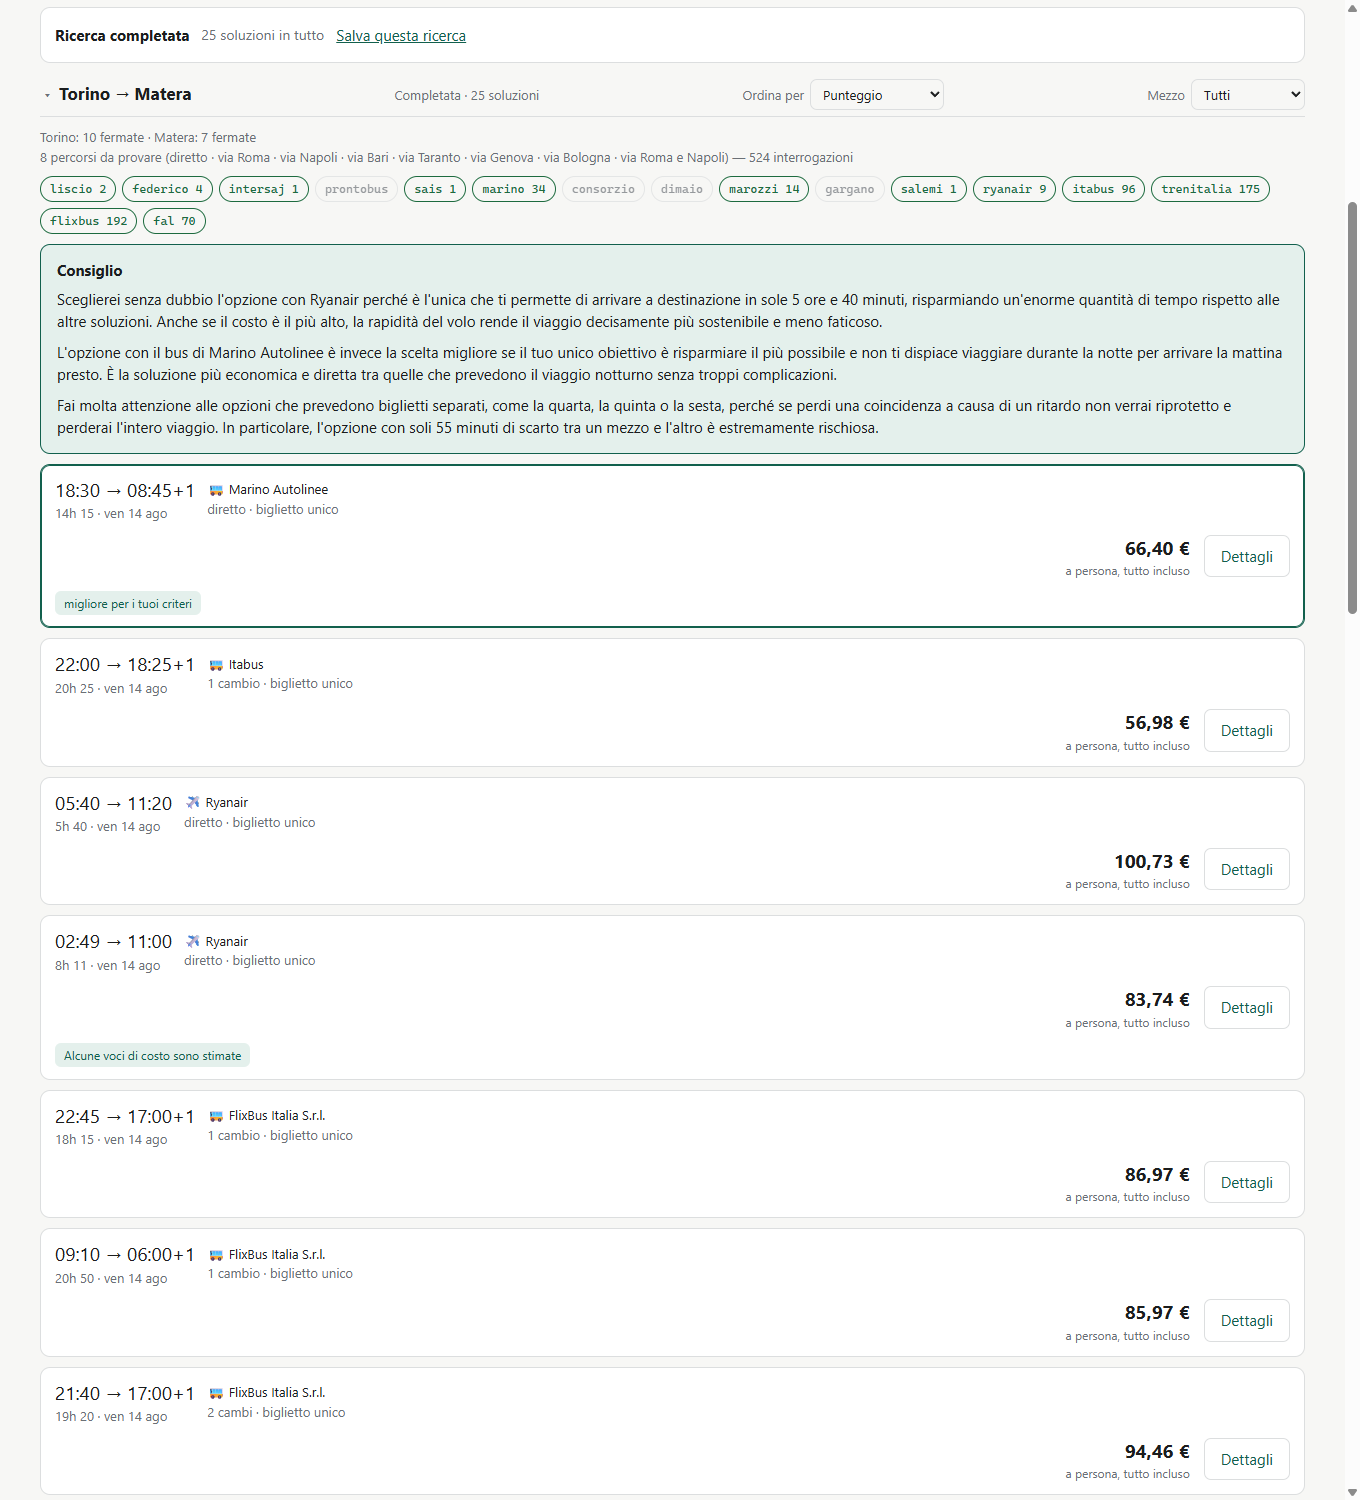
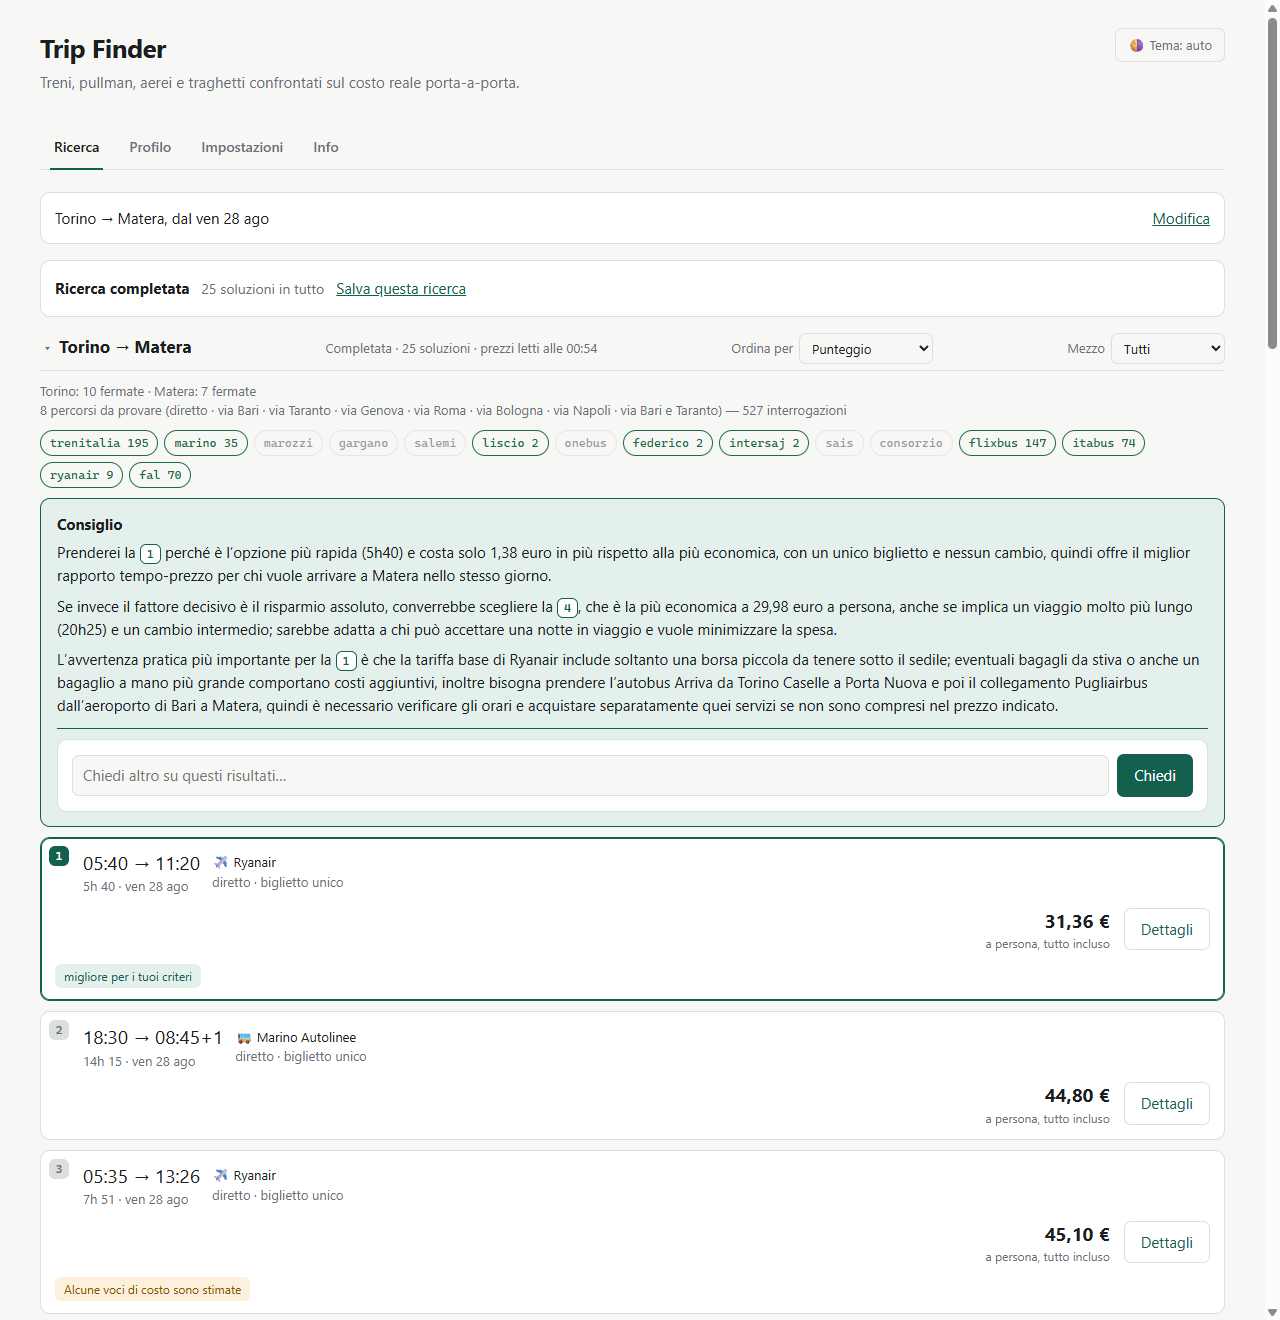
chore: v7.0.0
Screenshots regenerated: the form now collapses after a search, the stops carry
their distance, and the advice has a field under it.

The README claimed "42 adapters, all green". Running check_providers to verify
it gave 32 green and 11 empty - all Albatross regional operators with no service
on their sample route that day. The claim was already stale, so both the README
and docs/operatori.md now say the number that was actually measured, with the
date. A number that cannot be defended does not belong in a project whose first
principle is that the number must be defensible.

diff --git a/app/version.py b/app/version.py
@@ -5,4 +5,4 @@ per decidere se ce n'e' una piu' nuova. Il tag della release deve dire la stessa
 cosa con una `v` davanti: `v0.2.0`.
 """
 
-VERSION = "0.6.1"
+VERSION = "7.0.0"

diff --git a/README.md b/README.md
@@ -14,9 +14,9 @@ Si scarica e si fa doppio click: niente Python, niente terminale.
 ![Torino → Matera, 25 soluzioni confrontate sul costo porta a porta](docs/img/comparison.png)
 
 **English summary** — Trip Finder is a local-first, multimodal trip search
-engine for Italy and its neighbours: 42 operator adapters across trains,
-coaches, flights and ferries, queried in parallel and merged into a single
-ranking. What makes it different from an aggregator is the unit of comparison:
+engine for Italy and its neighbours: 43 operator adapters across trains,
+coaches, flights, ferries and local public transport, queried in parallel and
+merged into a single ranking. What makes it different from an aggregator is the unit of comparison:
 not the fare, but the **real door-to-door cost** — fare plus checked bag, plus
 the ride to the first stop and from the last one, plus transfers between legs,
 with every estimated item labelled as such. It also separates *changes* from
@@ -37,8 +37,16 @@ them and opens an issue when they drift. Better still, where an operator returns
 its reduced fares inside the search response, the ranking uses **their** number
 instead of estimating a percentage, and says so.
 
+Every leg an adapter returns is checked against the pair that was actually
+asked for — by geography, and by whether its duration is even physically
+possible — because an adapter that quietly answers about somewhere else is
+worse than one that fails: a search for Asti → Canelli, twenty-one kilometres
+apart, once came back with an eighteen-hour coach between two towns six hundred
+kilometres away, and nothing downstream noticed.
+
 Stack: Python, FastAPI, SQLite, `curl_cffi` and Playwright for the harder
-operators, and an LLM for the comparative advice — eleven providers tried in a
+operators, and an LLM for the comparative advice — which you can now also talk
+back to, asking about the ranking in front of you — eleven providers tried in a
 chain, free tiers first, queued per host, with per-(provider, model) penalties
 learned at runtime so a model that truncates JSON on one host is not written off
 on another. Any one API key is enough, entered from the settings tab, and none
@@ -252,6 +260,15 @@ Due controlli prima che il testo compaia: se cita una soluzione che non esiste,
 o se non ne cita nessuna, la risposta si scarta e tocca a un altro modello.
 Quando invece non arriva niente, la pagina dice il motivo e offre «Riprova».
 
+Sotto il consiglio si può rispondere. «Perché non la 2? io i cambi li evito»,
+«e a che ora arriva quella che mi hai consigliato?»: la conversazione vede la
+stessa classifica del consiglio, più le preferenze del Profilo, e i riferimenti
+restano cliccabili anche nelle risposte. Con un limite dichiarato, che è la
+ragione per cui è difendibile: **non lancia ricerche e non tocca il modulo**.
+Può parlare solo di quello che ha davanti, quindi non può inventare un
+collegamento che non è stato trovato — se la risposta richiede altri parametri
+lo dice, e la ricerca la rilanci tu.
+
 ### Le tessere, che sono un dato che scade
 
 Una tessera non è un fatto stabile. Delle voci raccolte ad agosto 2026 cinque
@@ -317,9 +334,14 @@ possono dire.
 Ogni adapter è un plugin isolato: se il suo parser si rompe, gli altri
 continuano a funzionare e la ricerca degrada invece di fallire.
 
-**42 adapter, tutti verdi** su `scripts/check_providers.py`.
+**43 adapter.** L'ultima corsa di `scripts/check_providers.py` (22 agosto 2026,
+data di prova 5 settembre) ne dà **32 verdi e 11 vuoti**: gli undici sono tutti
+operatori regionali della piattaforma Albatross, che sulla loro tratta di prova
+quel giorno non avevano corse. Un `VUOTO` non è necessariamente un parser rotto
+— molti di questi fanno una corsa al giorno o viaggiano a stagione — ma **non è
+nemmeno un verde**, e vale la pena rileggerlo prima di fidarsene.
 
-Otto sono autonomi:
+Nove sono autonomi:
 
 | Operatore | Cosa dà |
 |---|---|
@@ -331,6 +353,7 @@ Otto sono autonomi:
 | **Grimaldi Lines** | il primo traghetto di linea vero, con il prezzo |
 | **ÖBB** | l'orario austriaco, compresi i diretti Vienna–Venezia. Senza prezzi |
 | **SBB CFF FFS** | l'orario svizzero, compreso Zurigo–Milano. Senza prezzi |
+| **Transitous** | il trasporto pubblico locale, dai dati aperti che gli enti pubblicano. Senza prezzi |
 
 Gli altri trentaquattro sono **un solo adapter**. Molti operatori di pullman
 italiani non hanno un sito ciascuno: usano lo stesso motore di prenotazione,
@@ -345,6 +368,27 @@ Aggiungerne un altro costa una riga nella tabella `OPERATORS` di
 sia l'una sia l'altra c'è `scripts/probe_albatross.py`, che parte dagli
 operatori già noti, ne legge i vettori collegati e prova le coppie di località
 ricavate dalle **linee reali** invece di tentare a caso.
+
+### Transitous: il pezzo che mancava, e come si sta a casa d'altri
+
+Una ricerca **Asti → Canelli** — ventun chilometri — non aveva nessuno che
+sapesse rispondere. Trenitalia dice il vero quando risponde «nessuna soluzione»
+(quella tratta in treno non esiste), FlixBus non ci passa, e l'unico mezzo
+pubblico è un autobus di linea. Transitous quella corsa la sa: linea 41,
+quarantacinque minuti.
+
+Sotto c'è MOTIS, un motore libero alimentato dai GTFS aperti che gli enti
+pubblicano. Non è un'azienda: è un servizio di volontari, che dichiara il
+routing «resource-intensive» e chiede di essere avvisato prima che qualcuno
+cominci a fare molte richieste. Da qui una **disciplina di richiesta** scritta
+nel codice invece che affidata alle buone intenzioni: l'adapter tace sulle
+coincidenze intermedie, tace sopra i 150 km (misurato: la lunga percorrenza
+torna comunque vuota), ragiona per città invece che per fermata, e tiene la
+risposta in cache sei ore. Il risultato è **una richiesta per ricerca**, non
+una per coppia di fermate. In più: un `User-Agent` che dice chi siamo e come
+scriverci, un tetto di una richiesta ogni due secondi e mai due in volo
+insieme, e l'attribuzione delle fonti in fondo alla pagina, che è un obbligo
+della loro licenza e non un ringraziamento.
 
 ### Quelli che non ci sono, e perché
 

diff --git a/CHANGELOG.md b/CHANGELOG.md
@@ -4,6 +4,61 @@ Le versioni seguono [semver](https://semver.org/lang/it/). Il testo di ogni
 sezione finisce nelle note della release: si scrive per chi usa il programma,
 non per chi lo scrive.
 
+## [7.0.0]
+
+**Una ricerca poteva rispondere con il viaggio sbagliato, e sembrava giusto.**
+Asti → Canelli, ventun chilometri: l'unica soluzione proposta era un pullman di
+**diciotto ore** fra Castiglione della Pescaia e Lamezia Terme — Toscana e
+Calabria, seicento chilometri più in là. Non era un errore di orario: era la
+corsa di un'altra tratta, entrata in classifica come se fosse la risposta.
+
+Succedeva così: Canelli non ha una città nel nostro dataset, il motore gliene
+attribuiva una vicina — Acqui Terme — e l'autocompletamento di FlixBus, che è
+approssimato e risponde comunque qualcosa, traduceva «asti» in Castiglione
+della Pescaia e «acqui terme» in Lamezia Terme. Nessuno confrontava il nome
+trovato con quello chiesto. E niente se ne accorgeva a valle, perché quella
+corsa portava **le coordinate della tratta chiesta** con i nomi di un'altra.
+
+Tre correzioni, dalla più profonda:
+
+- FlixBus non indovina più: la città proposta si accetta solo se è **dove hai
+  chiesto**, e le coordinate lo dicono senza ambiguità — zero chilometri quando
+  è giusta, trecento quando non lo è. Le traduzioni sbagliate già salvate non
+  sopravvivono all'aggiornamento.
+- **Ogni** operatore, anche quelli scritti domani, ora passa da un controllo:
+  una corsa che parte o arriva lontano da quello che hai chiesto, o che
+  impiegherebbe più tempo di una persona che va a piedi, non entra in
+  classifica. Durante le prove ha già preso un secondo caso, di un altro
+  operatore: una corsa per **Sibari** dentro una ricerca per Bari.
+- Una corsa di FlixBus poteva anche portare il nome di una fermata e la
+  posizione di un'altra. Ora non più.
+
+**Il trasporto pubblico locale c'è.** Asti → Canelli adesso risponde:
+quarantacinque minuti, linea 41, due euro e cinquanta. Arriva da
+[Transitous](https://transitous.org/), che raccoglie gli orari aperti che gli
+enti pubblicano — l'attribuzione delle fonti è in fondo alla pagina. È il pezzo
+che mancava fuori dalle grandi città, e Matera e Canelli erano esattamente i
+posti che ne avevano più bisogno.
+
+**Al consiglio si può rispondere.** Sotto il testo c'è un campo: «perché non la
+2? io i cambi li evito», «e a che ora arriva quella che mi hai consigliato?».
+Vede la classifica che stai guardando e le preferenze del Profilo, e i numeri
+delle soluzioni restano cliccabili anche nelle risposte. Non lancia ricerche e
+non tocca il modulo: parla solo di quello che hai davanti, quindi non può
+inventare un collegamento che non è stato trovato.
+
+**Le fermate si spiegano da sole.** Cercando «Canelli» la prima pastiglia
+proposta era l'aeroporto di **Genova**, a 55 km, e Canelli era la nona — e
+l'ordine cambiava a ogni riavvio del programma. Ora le fermate vicine vengono
+prima degli aeroporti, dentro ogni gruppo si va per distanza, e su ogni
+pastiglia c'è scritto quanto dista. L'ordine con cui il motore sceglie chi
+interrogare è rimasto quello di prima, che era tarato: sono due cose diverse e
+ora sono separate.
+
+**Le fermate compaiono mentre scrivi.** Prima bisognava premere Invio o
+cliccare fuori dal campo, anche avendo scritto il nome per intero: sembrava che
+non avesse capito.
+
 ## [0.6.1]
 
 **Il mondo arriva anche a chi aggiorna.** Il gazetteer delle città viaggiava nel

diff --git a/docs/operatori.md b/docs/operatori.md
@@ -3,16 +3,25 @@
 Verifiche fatte sugli endpoint reali. Serve a non rifare le stesse ricerche fra
 sei mesi, e a sapere dove riprendere.
 
-Ultimo aggiornamento: **2 agosto 2026**: Deutsche Bahn dal browser, Volotea
-ripreso, i voli mondiali sondati e gli operatori del mondo dichiarati.
+Ultimo aggiornamento: **22 agosto 2026**: aggiunto Transitous per il trasporto
+pubblico locale, e chiuso il difetto per cui FlixBus rispondeva su un'altra
+citta' invece di dire di no.
 
 ---
 
 ## Funzionanti
 
-**42 adapter, tutti verdi** su `scripts/check_providers.py`.
+**43 adapter**, di cui **32 verdi e 11 vuoti** all'ultima corsa di
+`scripts/check_providers.py` (22 agosto 2026, data di prova 5 settembre).
 
-I sette autonomi:
+Gli undici vuoti sono tutti della piattaforma Albatross: acierno, consorzio,
+dimaio, federico, giuntabus, giuntatrasporti, intersaj, marinourbano, onebus,
+satam, tiemme. Nella stessa giornata `federico` e `intersaj` hanno restituito
+corse dentro una ricerca Torino-Matera vera, quindi i loro parser funzionano: e'
+la tratta di prova a non avere corse quel giorno. Da guardare comunque, perche'
+un `VUOTO` che dura e' il modo in cui questi adapter si rompono in silenzio.
+
+I nove autonomi:
 
 | Operatore | Modo | Endpoint | Note |
 |---|---|---|---|
@@ -24,6 +33,7 @@ I sette autonomi:
 | Grimaldi Lines | nave | `booking.grimaldi-lines.com/ajax.php` | Con prezzo. HTML, non JSON. Dettagli sotto |
 | OBB | treno | `fahrplan.oebb.at/bin/mgate.exe` | Orari senza prezzo. Copre i diretti Vienna-Venezia |
 | SBB CFF FFS | treno | `transport.opendata.ch/v1/connections` | Orari senza prezzo. Copre Zurigo-Milano |
+| Transitous | pullman | `api.transitous.org/api/v1/plan` | Trasporto pubblico locale dai GTFS aperti, via MOTIS. Nessuna chiave. Orari senza prezzo. **Politica d'uso da rispettare**: solo progetti open source, `User-Agent` con contatto, attribuzione in pagina, e loro chiedono di essere avvisati prima di fare molte richieste — per questo l'adapter tace sulle coincidenze intermedie e sopra i 150 km |
 
 I trentaquattro della piattaforma Albatross, in `app/providers/bus/albatross.py`:
 
@@ -156,6 +166,7 @@ l'evidenza e il punto da cui ripartire.
 | **DB** | Tentato il 2 agosto: **dal browser la pagina di ricerca non blocca**. Manca il deep link con la data, o la compilazione del modulo. Vedi la sezione dedicata |
 | **SNCF, Renfe** | Non sondati. Trainline li coprirebbe tutti in un colpo, ma ha il captcha DataDome |
 | **Trenord** | Da verificare se serve: Trenitalia restituisce gia' molte corse regionali lombarde |
+| **Transitous** | Attivo dal 22 agosto 2026. **Da fare: scrivere loro**, come chiede la politica d'uso, prima di un uso continuativo. Copertura a macchia di leopardo: dove il feed manca risponde `200` con zero itinerari, che e' `EMPTY` e non un guasto |
 
 ---
 
